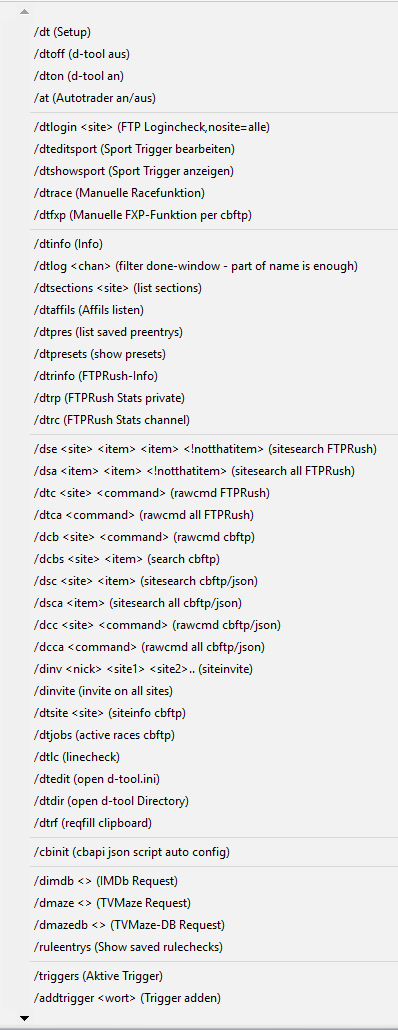
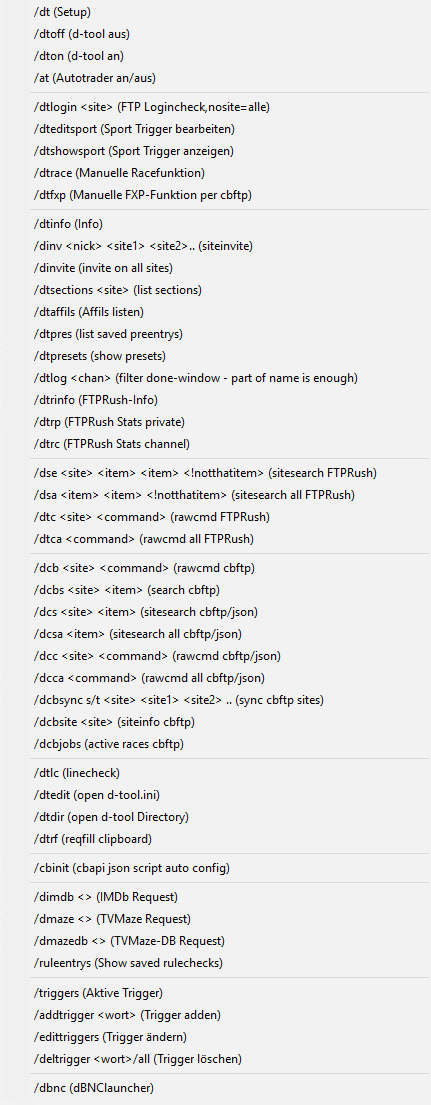
commands

diff --git a/Commands.html b/Commands.html
@@ -127,13 +127,15 @@ Vorher Release in die Zwischenablage kopieren und Sektion merken<br>
   <strong>/dtfxp - </strong>Manuelle FXP-Funktion per cbftp<br>
   _____________________________________________________________<br>
   <br>
-  <strong>/dtinfo </strong> - Informationen über die Siteeinstellungen<br>
-  <strong>/dtlog &lt;&gt;</strong> - done Fenster nach Eingabe filtern<br>
-  zB. Sitenchan, dann wird  angezeigt was man auf einer bestimmten Site angestellt hat<br>
+  <strong>/dtinfo </strong> - Informationen über die Siteeinstellungen<br />
+  <strong>/dinv &lt;nick&gt; &lt;site1&gt; &lt;site2&gt; ...</strong> - Invite auf einer oder mehrere Sites<br />
+  <strong>/dinvite</strong> - Invite auf allen Sites falls die IRC-Nicks eingestellt sind<br>
   <strong>/dtsections &lt;site&gt;</strong> - Sektionen listen<br>
   <strong>/dtaffils </strong> - Affils aller Sites anzeigen lassen<br>
   <strong>/dtpres</strong> - Derzeit gespeicherte Preeinträge anzeigen lassen<br>
-  <strong>/dtpresets </strong> - Presetdialog öffnen<br>
+  <strong>/dtpresets </strong> - Presetdialog öffnen<br />
+  <strong>/dtlog &lt;&gt;</strong> - done Fenster nach Eingabe filtern<br />
+zB. Sitenchan, dann wird  angezeigt was man auf einer bestimmten Site angestellt hat  <br>
   <strong>/dtrinfo </strong> - Infofunktion vom Server abrufen, falls d-tool noch auf einem Server läuft<br>
   <strong>/dtrp </strong>- Private Rushstats<br>
   <strong>/dtrc </strong>- Rushstats im Channel posten
@@ -142,17 +144,20 @@ Vorher Release in die Zwischenablage kopieren und Sektion merken<br>
       <p class="normalschrift"><strong>/dse &lt;sitename&gt; &lt;suchwörter&gt;</strong> - Search:Rush<br>
         <strong>/dsa &lt;suchwörter&gt;</strong> - Search:All:Rush<br>
         <strong>/dtc &lt;site&gt; &lt;command&gt;</strong> - RawCmd:Rush<br>
-        <strong>/dtca &lt;command&gt;                        </strong>- RawCmd:All:Rush<br>
+        <strong>/dtca &lt;command&gt;                        </strong>- RawCmd:All:Rush<br />
+        _____________________________________________________________<br />
+        <br>
         <strong>/dcb &lt;site&gt; &lt;command&gt; </strong>- RawCmd:cbftp<br />
         <strong>/dcbs</strong> <strong>&lt;site&gt; &lt;item&gt;</strong> - Search:cbftp<br>
-        <strong>/dsc &lt;site&gt; &lt;item&gt; </strong>- Search:cbftp/json<br>
-        <strong>/dsca  &lt;item&gt; </strong>- Search:All:cbftp/json<br>
+        <strong>/dcs &lt;site&gt; &lt;item&gt; </strong>- Search:cbftp/json<br>
+        <strong>/dcsa  &lt;item&gt; </strong>- Search:All:cbftp/json<br>
         <strong>/dcc &lt;site&gt; &lt;command&gt; </strong>- RawCmd:cbftp/json<br>
-        <strong>/dcca  &lt;command&gt; </strong>- RawCmd:All:cbftp/json <br>
-        <strong>/dinv &lt;nick&gt; &lt;site1&gt; &lt;site2&gt; ...</strong> - Invite auf einer oder mehrere Sites<br>
-        <strong>/dinvite</strong> - Invite auf allen Sites falls die IRC-Nicks eingestellt sind<br />
+        <strong>/dcca  &lt;command&gt; </strong>- RawCmd:All:cbftp/json<br />
+        <strong>/dcbsync s/t &lt;site&gt; &lt;site1&gt; &lt;site2&gt;</strong> - Sync Sources/Targets with cbftp      <br />
         <strong>/dtsite &lt;site&gt;</strong> - Siteinfo cbftp        <br />
-        <strong>/dtjobs</strong> - Active Races cbftp<br>
+        <strong>/dtjobs</strong> - Active Races cbftp<br />
+        _____________________________________________________________<br />
+<br>
         <strong>/dtlc</strong> - Linecheck <br>
         Für die Nummern der Wörter im Release, da diese aufgrund von Formatierungen manchmal so nicht zählbar sind. Bevor man den Befehl 
 nutzt, muss man die komplette Zeile des NEW Announce mit Farbcodes 
@@ -188,7 +193,7 @@ Befehl <span class="italic">/dtlc</span> ausführt, werden die Wörter mit den N
 </p></td>
     <td width="486" valign="top" align="left"><p>&nbsp;</p>
     <p>&nbsp;</p>
-    <p>&nbsp;</p>    <p><img src="Commands-Dateien/menu-commands.png" width="398" height="1030"></p>
+    <p>&nbsp;</p>    <p><img src="Commands-Dateien/menu-commands.png" width="431" height="1105"></p>
     <p>Kontextmenü &gt; d-tool &gt; Commands</p></td>
   </tr>
   <tr>
